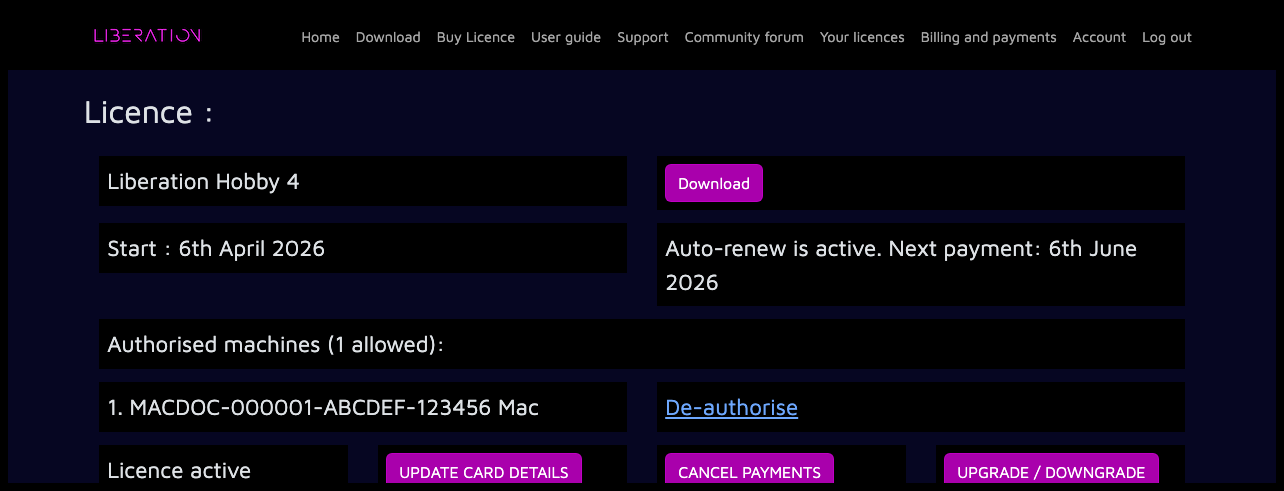
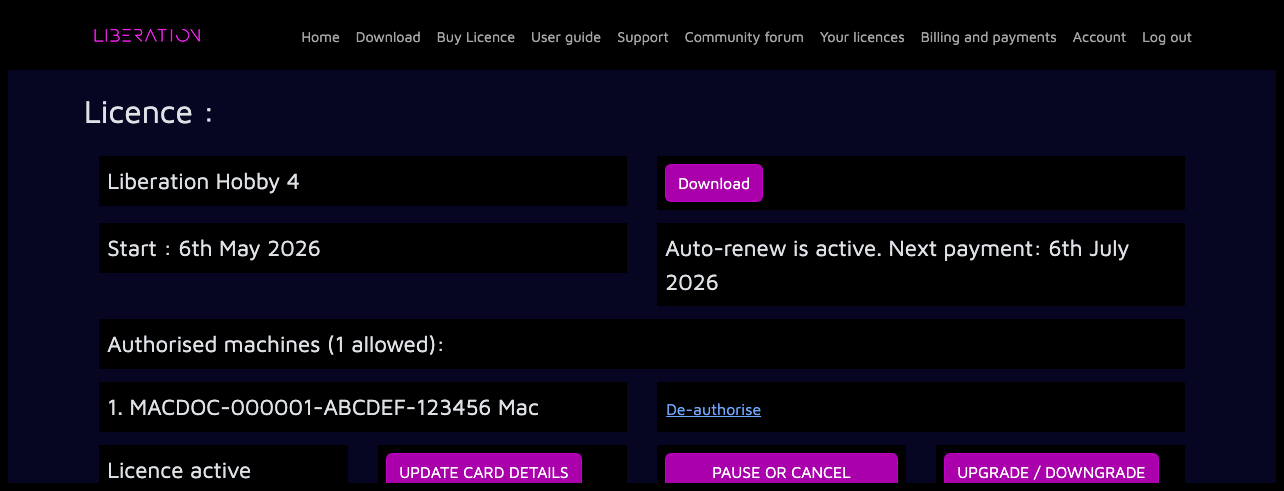
Document subscription pause payments

diff --git a/en-GB/faq.md b/en-GB/faq.md
@@ -95,25 +95,29 @@ You can upgrade to a higher tier at any time. You will get a partial refund for 
 
 You can downgrade at any time but the change will take effect at the end of your current paid period. See [upgrade-downgrade-your-license.md](installation/upgrade-downgrade-your-license.md "mention")
 
+#### **Can I pause payments for my licence?**
+
+For an eligible recurring paid licence, log in to the website, open the [_Your licences_](https://liberationlaser.com/account/my-products) page, select the licence you want to manage, then click _PAUSE OR CANCEL PAYMENTS_. Your paid licence will stay active until the end of the current paid period. You can choose to restart payments next month, on a date you choose, or only when you restart manually. See [cancel-your-subscription.md](installation/cancel-your-subscription.md "mention")
+
 #### **How do I authorise my computer with my licence?**
 
 Once you have purchased a licence you can then authorise the computer within the Liberation software itself. You will see an _Authorise_ button on the _About_ screen that will prompt you to log in to the website. Follow the on-screen instructions to complete the authorisation process. See [authorising-and-de-authorising.md](installation/authorising-and-de-authorising.md "mention")
 
 #### **How often do I need to connect my computer to the internet?**
 
-Every time a paid licence refreshes after a payment, you will need to connect Liberation to the internet to update its internal licence. For a monthly auto-renewing licence, you will need to connect every month.
+Every time a recurring paid licence renews successfully, you will need to connect Liberation to the internet to update its internal licence. So for a monthly auto-renewing licence, you will need to connect every month.
 
 #### **What happens if I can’t connect my computer to the internet after the next payment?**
 
-Liberation will give you a grace period of 7 days after your paid licence refreshes to connect to the internet and update its internal licence. After that period Liberation will go back into _Free_ mode.
+For monthly recurring paid licences, Liberation usually gives you a grace period of 7 days after your paid licence renews to connect to the internet and update its internal licence. After that period Liberation will go back into _Free_ mode.
 
 #### **What happens if my credit card expires?**
 
-You will get an email notification from our payment provider, and you will need to update your card details. Log in to the website and use _UPDATE CARD DETAILS_ on the licence page, or _Update_ under _Billing and payments_.
+You will get an email notification from our payment provider, and you will need to update your card details. Log in to the website and use _UPDATE CARD DETAILS_ on the licence page, or _Update_ under _Billing and payments_. You must do this within the grace period to avoid losing access to paid features.
 
 #### **How do I cancel auto-renew for my licence?**
 
-Log in to the website, open the [_Your licences_](https://liberationlaser.com/account/my-products) page, select the licence you want to manage, then click _CANCEL PAYMENTS_. Your paid licence will stay active until the end of the current paid period. No further payments will be taken.
+Log in to the website, open the [_Your licences_](https://liberationlaser.com/account/my-products) page, select the licence you want to manage, then click _PAUSE OR CANCEL PAYMENTS_ or _CANCEL PAYMENTS_. Use _Cancel payments permanently_ and click _CANCEL PAYMENTS_. Your paid licence will stay active until the end of the current paid period. No further payments will be taken. See [cancel-your-subscription.md](installation/cancel-your-subscription.md "mention")
 
 #### **How many computers can I install Liberation on?**
 

diff --git a/en-US/faq.md b/en-US/faq.md
@@ -95,25 +95,29 @@ You can upgrade to a higher tier at any time. You will get a partial refund for 
 
 You can downgrade at any time but the change will take effect at the end of your current paid period. See [Upgrade / downgrade your license](installation/upgrade-downgrade-your-license.md "mention")
 
+#### **Can I pause payments for my license?**
+
+For an eligible recurring paid license, log in to the website, open the [_Your licenses_](https://liberationlaser.com/account/my-products) page, select the license you want to manage, then click _PAUSE OR CANCEL PAYMENTS_. Your paid license will stay active until the end of the current paid period. You can choose to restart payments next month, on a date you choose, or only when you restart manually. See [Pause or cancel payments](installation/cancel-your-subscription.md "mention")
+
 #### **How do I authorize my computer with my license?**
 
 Once you have purchased a license you can then authorize the computer within the Liberation software itself. You will see an _Authorize_ button on the _About_ screen that will prompt you to log in to the website. Follow the on-screen instructions to complete the authorization process. See [Authorizing and de-authorizing](installation/authorising-and-de-authorising.md "mention")
 
 #### **How often do I need to connect my computer to the internet?**
 
-Every time a paid license refreshes after a payment, you will need to connect Liberation to the internet to update its internal license. For a monthly auto-renewing license, you will need to connect every month.
+Every time a recurring paid license renews successfully, you will need to connect Liberation to the internet to update its internal license. So for a monthly auto-renewing license, you will need to connect every month.
 
 #### **What happens if I can’t connect my computer to the internet after the next payment?**
 
-Liberation will give you a grace period of 7 days after your paid license refreshes to connect to the internet and update its internal license. After that period Liberation will go back into _Free_ mode.
+For monthly recurring paid licenses, Liberation usually gives you a grace period of 7 days after your paid license renews to connect to the internet and update its internal license. After that period Liberation will go back into _Free_ mode.
 
 #### **What happens if my credit card expires?**
 
-You will get an email notification from our payment provider, and you will need to update your card details. Log in to the website and use _UPDATE CARD DETAILS_ on the license page, or _Update_ under _Billing and payments_.
+You will get an email notification from our payment provider, and you will need to update your card details. Log in to the website and use _UPDATE CARD DETAILS_ on the license page, or _Update_ under _Billing and payments_. You must do this within the grace period to avoid losing access to paid features.
 
 #### **How do I cancel auto-renew for my license?**
 
-Log in to the website, open the [_Your licenses_](https://liberationlaser.com/account/my-products) page, select the license you want to manage, then click _CANCEL PAYMENTS_. Your paid license will stay active until the end of the current paid period. No further payments will be taken.
+Log in to the website, open the [_Your licenses_](https://liberationlaser.com/account/my-products) page, select the license you want to manage, then click _PAUSE OR CANCEL PAYMENTS_ or _CANCEL PAYMENTS_. Use _Cancel payments permanently_ and click _CANCEL PAYMENTS_. Your paid license will stay active until the end of the current paid period. No further payments will be taken. See [Pause or cancel payments](installation/cancel-your-subscription.md "mention")
 
 #### **How many computers can I install Liberation on?**
 

diff --git a/en-GB/installation/cancel-your-subscription.md b/en-GB/installation/cancel-your-subscription.md
@@ -5,18 +5,42 @@ metaLinks:
       https://app.gitbook.com/s/MdbbIbIwHdJwkEREnJyv/installation/cancel-your-subscription
 ---
 
-# ✅ Cancel your licence
+# ✅ Pause or cancel payments
 
-Your licence auto-renews each month, but you can turn this off at any time. You’ll keep access to paid features until the end of your current licence period. After that, your account will return to Free mode and you won’t be charged again.
+Recurring paid licences auto-renew each month, but you can pause or cancel future payments from your account.
 
-Log in to the website, open the [_Your licences_](https://liberationlaser.com/account/my-products) page, choose the licence you want to manage, then click _CANCEL PAYMENTS_.
+If you pause payments, your licence stays active until the end of the current paid period. When the pause starts, paid access stops until the licence restarts. If you cancel payments permanently, your licence stays active until the end of the current paid period, then returns to Free mode and no further payments will be taken.
+
+Log in to the website, open the [_Your licences_](https://liberationlaser.com/account/my-products) page, then choose the licence you want to manage.
 
 <figure><img src="../.gitbook/assets/account-active-licence.png" alt=""><figcaption></figcaption></figure>
 
-On the confirmation page, check the paid period end date and click _CANCEL PAYMENTS_ again.
+## Pause payments
+
+If payment pausing is available for your licence, click _PAUSE OR CANCEL PAYMENTS_.
+
+Under _Pause payments_, choose when payments should restart:
+
+* _Next month_
+* _On a date I choose_
+* _Only when I restart manually_
+
+Then click _PAUSE PAYMENTS_.
+
+Your licence page will show _Payments paused from_ and the paid period end date. Your licence will stay active until that date.
+
+Before the pause starts, you can click _REACTIVATE PAYMENTS_ to cancel the scheduled pause. Payments will then continue as normal.
+
+After the pause starts, your licence page will show _Licence paused_. From there you can restart the licence now, change the restart date, pause until you restart manually, or cancel payments permanently.
+
+When a paused licence restarts, Paddle will take payment using your saved payment method.
+
+## Cancel payments permanently
+
+To stop future payments without scheduling a restart, use _Cancel payments permanently_ and click _CANCEL PAYMENTS_.
 
 <figure><img src="../.gitbook/assets/account-cancel-auto-renew.png" alt=""><figcaption></figcaption></figure>
 
-After cancellation, the licence page will show _Auto-renew is off_ and the date your paid licence remains active until.
+After cancellation, the licence page will show _Auto-renew is off_ and the date your paid licence remains active until. To use paid features again after that, you'll need to start over with a new licence.
 
 <figure><img src="../.gitbook/assets/account-auto-renew-off.png" alt=""><figcaption></figcaption></figure>

diff --git a/en-US/installation/cancel-your-subscription.md b/en-US/installation/cancel-your-subscription.md
@@ -5,18 +5,42 @@ metaLinks:
       https://app.gitbook.com/s/MdbbIbIwHdJwkEREnJyv/installation/cancel-your-subscription
 ---
 
-# ✅ Cancel your license
+# ✅ Pause or cancel payments
 
-Your license auto-renews each month, but you can turn this off at any time. You’ll keep access to paid features until the end of your current license period. After that, your account will return to Free mode and you won’t be charged again.
+Recurring paid licenses auto-renew each month, but you can pause or cancel future payments from your account.
 
-Log in to the website, open the [_Your licenses_](https://liberationlaser.com/account/my-products) page, choose the license you want to manage, then click _CANCEL PAYMENTS_.
+If you pause payments, your license stays active until the end of the current paid period. When the pause starts, paid access stops until the license restarts. If you cancel payments permanently, your license stays active until the end of the current paid period, then returns to Free mode and no further payments will be taken.
+
+Log in to the website, open the [_Your licenses_](https://liberationlaser.com/account/my-products) page, then choose the license you want to manage.
 
 <figure><img src="../.gitbook/assets/account-active-licence.png" alt=""><figcaption></figcaption></figure>
 
-On the confirmation page, check the paid period end date and click _CANCEL PAYMENTS_ again.
+## Pause payments
+
+If payment pausing is available for your license, click _PAUSE OR CANCEL PAYMENTS_.
+
+Under _Pause payments_, choose when payments should restart:
+
+* _Next month_
+* _On a date I choose_
+* _Only when I restart manually_
+
+Then click _PAUSE PAYMENTS_.
+
+Your license page will show _Payments paused from_ and the paid period end date. Your license will stay active until that date.
+
+Before the pause starts, you can click _REACTIVATE PAYMENTS_ to cancel the scheduled pause. Payments will then continue as normal.
+
+After the pause starts, your license page will show _License paused_. From there you can restart the license now, change the restart date, pause until you restart manually, or cancel payments permanently.
+
+When a paused license restarts, Paddle will take payment using your saved payment method.
+
+## Cancel payments permanently
+
+To stop future payments without scheduling a restart, use _Cancel payments permanently_ and click _CANCEL PAYMENTS_.
 
 <figure><img src="../.gitbook/assets/account-cancel-auto-renew.png" alt=""><figcaption></figcaption></figure>
 
-After cancellation, the license page will show _Auto-renew is off_ and the date your paid license remains active until.
+After cancellation, the license page will show _Auto-renew is off_ and the date your paid license remains active until. To use paid features again after that, you'll need to start over with a new license.
 
 <figure><img src="../.gitbook/assets/account-auto-renew-off.png" alt=""><figcaption></figcaption></figure>

diff --git a/en-GB/installation/how-licensing-works.md b/en-GB/installation/how-licensing-works.md
@@ -27,6 +27,8 @@ Each licence is for one user only and one show at a time. You can have more than
 
 Liberation's licensing and authorisation works over the internet; the app connects to our server to associate an installation with your paid licence.
 
-Once your installation is authorised it doesn't need to be online again until your paid licence reaches its next payment or paid-until date. You can see this date in the _About panel._ There is a short grace period (7 days for monthly paid licences) but it is recommended to go online as soon as possible after that date to make sure your authorisation remains active.
+Once you're authorised, you don't need to be online again until your recurring licence reaches its next payment date (shown in the _About panel_). Monthly recurring licences usually include a short grace period (7 days), but you should go online as soon as possible after the payment date to keep your paid features available without interruption.
+
+The grace period is for renewal and payment issues. It does not extend licences that have been cancelled, or deliberately paused, after the paid period ends. If a payment fails, update your card details within the grace period to keep paid features available.
 
 The current licence tier is also shown in the top bar. Click the tier name, or _FREE MODE_ when unlicensed, to open the About panel.

diff --git a/en-US/installation/how-licensing-works.md b/en-US/installation/how-licensing-works.md
@@ -27,6 +27,8 @@ Each license is for one user only and one show at a time. You can have more than
 
 Liberation's licensing and authorization works over the internet; the app connects to our server to associate an installation with your paid license.
 
-Once your installation is authorized it doesn't need to be online again until your paid license reaches its next payment or paid-until date. You can see this date in the _About panel._ There is a short grace period (7 days for monthly paid licenses) but it is recommended to go online as soon as possible after that date to make sure your authorization remains active.
+Once you're authorized, you don't need to be online again until your recurring license reaches its next payment date (shown in the _About panel_). Monthly recurring licenses usually include a short grace period (7 days), but you should go online as soon as possible after the payment date to keep your paid features available without interruption.
+
+The grace period is for renewal and payment issues. It does not extend licenses that have been canceled, or deliberately paused, after the paid period ends. If a payment fails, update your card details within the grace period to keep paid features available.
 
 The current license tier is also shown in the top bar. Click the tier name, or _FREE MODE_ when unlicensed, to open the About panel.

diff --git a/en-GB/installation/upgrade-downgrade-your-license.md b/en-GB/installation/upgrade-downgrade-your-license.md
@@ -11,6 +11,8 @@ You can upgrade to a higher tier at any time. You will get a partial refund for 
 
 You can also downgrade at any time but it will not take effect until the end of your current paid period.
 
+You cannot change plan while payments are scheduled to pause, or while the licence is paused. Cancel the scheduled pause or restart the licence first, then change plan.
+
 Log in to the website, open the [_Your licences_](https://liberationlaser.com/account/my-products) page, select the licence you want to change, then click _UPGRADE / DOWNGRADE_. You will then see the available options for your licence.
 
 <figure><img src="../.gitbook/assets/account-change-licence-plan.png" alt=""><figcaption></figcaption></figure>

diff --git a/en-US/installation/upgrade-downgrade-your-license.md b/en-US/installation/upgrade-downgrade-your-license.md
@@ -11,6 +11,8 @@ You can upgrade to a higher tier at any time. You will get a partial refund for 
 
 You can also downgrade at any time but it will not take effect until the end of your current paid period.
 
+You cannot change plan while payments are scheduled to pause, or while the license is paused. Cancel the scheduled pause or restart the license first, then change plan.
+
 Log in to the website, open the [_Your licenses_](https://liberationlaser.com/account/my-products) page, select the license you want to change, then click _UPGRADE / DOWNGRADE_. You will then see the available options for your license.
 
 <figure><img src="../.gitbook/assets/account-change-licence-plan.png" alt=""><figcaption></figcaption></figure>

diff --git a/en-GB/SUMMARY.md b/en-GB/SUMMARY.md
@@ -8,7 +8,7 @@
   * [✅ How licensing works](installation/how-licensing-works.md)
   * [✅ Authorising and de-authorising](installation/authorising-and-de-authorising.md)
   * [✅ Upgrade / downgrade your licence](installation/upgrade-downgrade-your-license.md)
-  * [✅ Cancel your licence](installation/cancel-your-subscription.md)
+  * [✅ Pause or cancel payments](installation/cancel-your-subscription.md)
   * [🟩 Transfer your content when upgrading to a new version](installation/transfer-your-content-when-upgrading-to-a-new-version.md)
 * [✅ FAQ](faq.md)
 * [✅ Quick start guide](getting-started.md)

diff --git a/en-US/SUMMARY.md b/en-US/SUMMARY.md
@@ -8,7 +8,7 @@
   * [✅ How licensing works](installation/how-licensing-works.md)
   * [✅ Authorizing and de-authorizing](installation/authorising-and-de-authorising.md)
   * [✅ Upgrade / downgrade your license](installation/upgrade-downgrade-your-license.md)
-  * [✅ Cancel your license](installation/cancel-your-subscription.md)
+  * [✅ Pause or cancel payments](installation/cancel-your-subscription.md)
   * [🟩 Transfer your content when upgrading to a new version](installation/transfer-your-content-when-upgrading-to-a-new-version.md)
 * [✅ FAQ](faq.md)
 * [✅ Quick start guide](getting-started.md)
